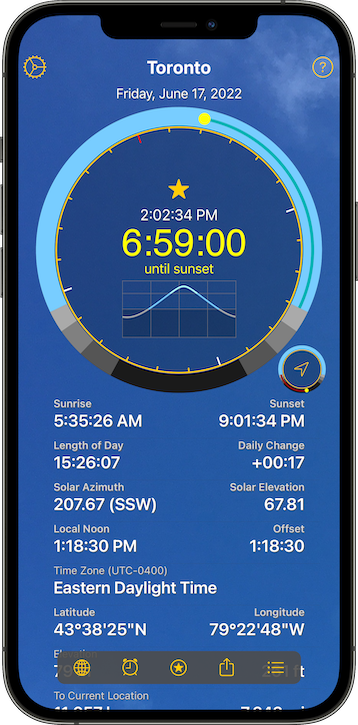
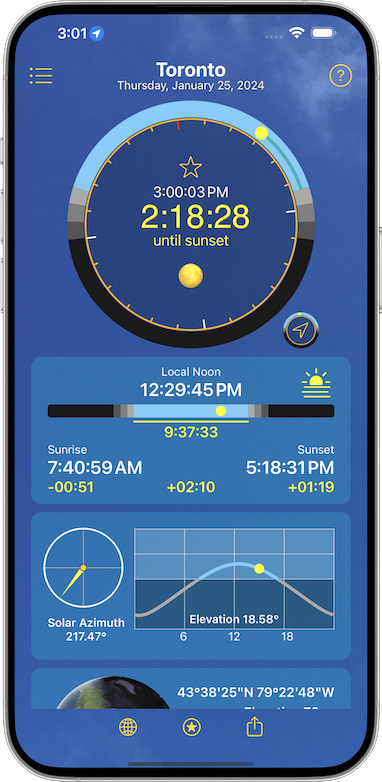
Updated main screenshots - rearranged text in en-US and de views.  Do the others later.

diff --git a/maxdaylight/v3.0/de/index.html b/maxdaylight/v3.0/de/index.html
@@ -86,126 +86,112 @@
 			<hr/>
 			<div class="container">
 				<h3>Sonnenpanel</center></h3>
-				<br/>
+				<p>Zeigt Sonnenaufgang, Mittag, Sonnenuntergang, Tageslänge und Änderungen gegenüber dem Vortag an. Tippen Sie hier, um zu verschiedenen Terminen und Zeiten zu erkunden.</p>
 				<img class="collection-cell" src="./images/cell.0.png">
 					
-					<p>Zeigt Sonnenaufgang, Mittag, Sonnenuntergang, Tageslänge und Änderungen gegenüber dem Vortag an. Tippen Sie hier, um zu verschiedenen Terminen und Zeiten zu erkunden.</p>
 			</div>
 			<hr/>
 			
 			<div class="container">
 				<h3>Solar-Höhenpanel</center></h3>
-				<br/>
+				<p>Zeigt Sonnenhöhe und Azimut an. Tippen Sie hier, um zu verschiedenen Terminen und Zeiten zu erkunden.</p>
 				<img class="collection-cell" src="./images/cell.1.png">
 					
-					<p>Zeigt Sonnenhöhe und Azimut an. Tippen Sie hier, um zu verschiedenen Terminen und Zeiten zu erkunden.</p>
 			</div>
 			<hr/>
 			
 			<div class="container">
 				<h3>Standortbereich</center></h3>
-				<br/>
+				<p>Zeigt Standort-, Höhen- und Zeitzoneninformationen an. Tippen Sie hier, um die Karte anzuzeigen und weitere Standorte zu speichern.</p>
 				<img class="collection-cell" src="./images/cell.2.png">
 					
-					<p>Zeigt Standort-, Höhen- und Zeitzoneninformationen an. Tippen Sie hier, um die Karte anzuzeigen und weitere Standorte zu speichern.</p>
 			</div>
 			<hr/>
 			
 			<div class="container">
 				<h3>Distanzfeld</center></h3>
-				<br/>
+				<p>Zeigt die Entfernung zum aktuellen Standort, zum Äquator und zum nächsten Pol an. Tippen Sie hier, um die Karte anzuzeigen und weitere Standorte zu speichern.</p>
 				<img class="collection-cell" src="./images/cell.3.png">
 					
-					<p>Zeigt die Entfernung zum aktuellen Standort, zum Äquator und zum nächsten Pol an. Tippen Sie hier, um die Karte anzuzeigen und weitere Standorte zu speichern.</p>
 			</div>
 			<hr/>
 			
 			<div class="container">
 				<h3>Dämmerungspanel</center></h3>
-				<br/>
+				<p>Zeigt die Dämmerungszeiten an. Tippen Sie hier, um zu verschiedenen Terminen und Zeiten zu erkunden.</p>
 				<img class="collection-cell" src="./images/cell.4.png">
 					
-					<p>Zeigt die Dämmerungszeiten an. Tippen Sie hier, um zu verschiedenen Terminen und Zeiten zu erkunden.</p>
 			</div>
 			<hr/>
 			
 			<div class="container">
 				<h3>Tagundnachtgleiche-Panel</center></h3>
-				<br/>
+				<p>Zeigt Informationen zur Tageslänge für Tagundnachtgleiche und Sonnenwende sowie den aktuellen Tag an. Tippen Sie hier, um zu verschiedenen Terminen und Zeiten zu erkunden.</p>
 				<img class="collection-cell" src="./images/cell.5.png">
 					
-					<p>Zeigt Informationen zur Tageslänge für Tagundnachtgleiche und Sonnenwende sowie den aktuellen Tag an. Tippen Sie hier, um zu verschiedenen Terminen und Zeiten zu erkunden.</p>
 			</div>
 			<hr/>
 			
 			<div class="container">
 				<h3>Panel „Zeitgleichung“</center></h3>
-				<br/>
+				<p>Zeigt Informationen zur Zeitgleichung für Liebhaber von Sonnenuhren an. Tippen Sie hier, um zu verschiedenen Terminen und Zeiten zu erkunden.</p>
 				<img class="collection-cell" src="./images/cell.6.png">
 					
-					<p>Zeigt Informationen zur Zeitgleichung für Liebhaber von Sonnenuhren an. Tippen Sie hier, um zu verschiedenen Terminen und Zeiten zu erkunden.</p>
 			</div>
 			<hr/>
 			
 			<div class="container">
 				<h3>Vergleichspanel</center></h3>
-				<br/>
+				<p>Vergleicht Breitengrad, Tageslänge und Sonnenhöhe für zwei Standorte. Tippen Sie hier, um zu verschiedenen Terminen und Zeiten zu erkunden.</p>
 				<img class="collection-cell" src="./images/cell.7.png">
 					
-					<p>Vergleicht Breitengrad, Tageslänge und Sonnenhöhe für zwei Standorte. Tippen Sie hier, um zu verschiedenen Terminen und Zeiten zu erkunden.</p>
 			</div>
 			<hr/>
 			
 			<div class="container">
 				<h3>Mondtafel</center></h3>
-				<br/>
+				<p>Zeigt Mondaufgang, Monduntergang, Mondphase und Beleuchtung an. Tippen Sie hier, um zu verschiedenen Terminen und Zeiten zu erkunden.</p>
 				<img class="collection-cell" src="./images/cell.8.png">
 					
-					<p>Zeigt Mondaufgang, Monduntergang, Mondphase und Beleuchtung an. Tippen Sie hier, um zu verschiedenen Terminen und Zeiten zu erkunden.</p>
 			</div>
 			<hr/>
 			
 			<div class="container">
 				<h3>Mondhöhentafel</center></h3>
-				<br/>
+				<p>Zeigt Mondhöhe und Azimut an. Tippen Sie hier, um zu verschiedenen Terminen und Zeiten zu erkunden.</p>
 				<img class="collection-cell" src="./images/cell.9.png">
 					
-					<p>Zeigt Mondhöhe und Azimut an. Tippen Sie hier, um zu verschiedenen Terminen und Zeiten zu erkunden.</p>
 			</div>
 			<hr/>
 			
 			<div class="container">
 				<h3>Film- und Berichtsbereich</center></h3>
-				<br/>
+				<p>Zeigt Sonnenaufgang, Mittag, Sonnenuntergang, Tageslänge und Änderungen gegenüber dem Vortag an. Tippen Sie hier, um zu verschiedenen Terminen und Zeiten zu erkunden.</p>
 				<img class="collection-cell" src="./images/cell.10.png">
 					
-					<p>Zeigt Sonnenaufgang, Mittag, Sonnenuntergang, Tageslänge und Änderungen gegenüber dem Vortag an. Tippen Sie hier, um zu verschiedenen Terminen und Zeiten zu erkunden.</p>
 			</div>
 			<hr/>
 			
 			<div class="container">
 				<h3>Sonnenlichtdaten-Panel</center></h3>
-				<br/>
+				<p>Zeigt Sonnenaufgang, Mittag, Sonnenuntergang, Tageslänge und Änderungen gegenüber dem Vortag an. Tippen Sie hier, um zu verschiedenen Terminen und Zeiten zu erkunden.</p>
 				<img class="collection-cell" src="./images/cell.12.png">
 					
-					<p>Zeigt Sonnenaufgang, Mittag, Sonnenuntergang, Tageslänge und Änderungen gegenüber dem Vortag an. Tippen Sie hier, um zu verschiedenen Terminen und Zeiten zu erkunden.</p>
 			</div>
 			
 			<div class="container">
 				<h3>Sonnenlichtdaten-Panel</center></h3>
-				<br/>
+				<p>Zeigt Sonnenaufgang, Mittag, Sonnenuntergang, Tageslänge und Änderungen gegenüber dem Vortag an. Tippen Sie hier, um zu verschiedenen Terminen und Zeiten zu erkunden.</p>
 				<img class="collection-cell" src="./images/cell.12.png">
 					
-					<p>Zeigt Sonnenaufgang, Mittag, Sonnenuntergang, Tageslänge und Änderungen gegenüber dem Vortag an. Tippen Sie hier, um zu verschiedenen Terminen und Zeiten zu erkunden.</p>
 			</div>
 			<hr/>
 			
 			<div class="container">
 				<h3>Sonnenlichtdaten-Panel</center></h3>
-				<br/>
+				<p>Zeigt Sonnenaufgang, Mittag, Sonnenuntergang, Tageslänge und Änderungen gegenüber dem Vortag an. Tippen Sie hier, um zu verschiedenen Terminen und Zeiten zu erkunden.</p>
 				<img class="collection-cell" src="./images/cell.13.png">
 					
-					<p>Zeigt Sonnenaufgang, Mittag, Sonnenuntergang, Tageslänge und Änderungen gegenüber dem Vortag an. Tippen Sie hier, um zu verschiedenen Terminen und Zeiten zu erkunden.</p>
 			</div>
 			<hr/>
 			

diff --git a/maxdaylight/v3.0/index.html b/maxdaylight/v3.0/index.html
@@ -87,126 +87,111 @@
 			<hr/>
 			<div class="container">
 				<h3>Sun Panel</h3>
-				<br/>
+				<p>Displays sunrise, noon, sunset, length of day and changes from previous day. Tap to explore at different dates and times.</p>
 				<img class="collection-cell" src="./images/cell.0.png">
 
-				<p>Displays sunrise, noon, sunset, length of day and changes from previous day. Tap to explore at different dates and times.</p>
 			</div>
 			<hr/>
 
 			<div class="container">
 				<h3>Solar Elevation Panel</h3>
-				<br/>
-				<img class="collection-cell" src="./images/cell.1.png">
-
 				<p>Displays solar elevation and azimuth. Tap to explore at different dates and times.</p>
+				<img class="collection-cell" src="./images/cell.1.png">
 			</div>
 			<hr/>
 
 			<div class="container">
 				<h3>Location Panel</h3>
-				<br/>
+				<p>Displays location, elevation and time zone information. Tap to view map and save more locations.</p>
 				<img class="collection-cell" src="./images/cell.2.png">
 
-				<p>Displays location, elevation and time zone information. Tap to view map and save more locations.</p>
 			</div>
 			<hr/>
 
 			<div class="container">
 				<h3>Distance Panel</h3>
-				<br/>
+				<p>Displays distance to current location, equator, and nearest pole. Tap to view map and save more locations.</p>
 				<img class="collection-cell" src="./images/cell.3.png">
 
-				<p>Displays distance to current location, equator, and nearest pole. Tap to view map and save more locations.</p>
 			</div>
 			<hr/>
 
 			<div class="container">
 				<h3>Twilight Panel</h3>
-				<br/>
+				<p>Displays twilight times. Tap to explore at different dates and times.</p>
 				<img class="collection-cell" src="./images/cell.4.png">
 
-				<p>Displays twilight times. Tap to explore at different dates and times.</p>
 			</div>
 			<hr/>
 
 			<div class="container">
 				<h3>Equinox Panel</h3>
-				<br/>
+				<p>Displays day length information for equinoxes and solstices, along with current day. Tap to explore at different dates and times.</p>
 				<img class="collection-cell" src="./images/cell.5.png">
 
-				<p>Displays day length information for equinoxes and solstices, along with current day. Tap to explore at different dates and times.</p>
 			</div>
 			<hr/>
 
 			<div class="container">
 				<h3>Equation of Time Panel</h3>
-				<br/>
+				<p>Displays information about the Equation of Time, for sun dial enthusiasts. Tap to explore at different dates and times.</p>
 				<img class="collection-cell" src="./images/cell.6.png">
 
-				<p>Displays information about the Equation of Time, for sun dial enthusiasts. Tap to explore at different dates and times.</p>
 			</div>
 			<hr/>
 
 			<div class="container">
 				<h3>Comparison Panel</h3>
-				<br/>
+				<p>Compares latitude, day length and solar elevation for two locations.  Tap to explore at different dates and times.</p>
 				<img class="collection-cell" src="./images/cell.7.png">
 
-				<p>Compares latitude, day length and solar elevation for two locations.  Tap to explore at different dates and times.</p>
 			</div>
 			<hr/>
 
 			<div class="container">
 				<h3>Moon Panel</h3>
-				<br/>
+				<p>Displays moonrise, moonset, lunar phase and illumination. Tap to explore at different dates and times.</p>
 				<img class="collection-cell" src="./images/cell.8.png">
 
-				<p>Displays moonrise, moonset, lunar phase and illumination. Tap to explore at different dates and times.</p>
 			</div>
 			<hr/>
 
 			<div class="container">
 				<h3>Moon Elevation Panel</h3>
-				<br/>
+				<p>Displays lunar elevation and azimuth. Tap to explore at different dates and times.</p>
 				<img class="collection-cell" src="./images/cell.9.png">
 
-				<p>Displays lunar elevation and azimuth. Tap to explore at different dates and times.</p>
 			</div>
 			<hr/>
 
 			<div class="container">
 				<h3>Movie and Report Panel</h3>
-				<br/>
+				<p>Displays buttons to make a movie or generate a report. Tap to create and view movie or report.</p>
 				<img class="collection-cell" src="./images/cell.10.png">
 
-				<p>Displays buttons to make a movie or generate a report. Tap to create and view movie or report.</p>
 			</div>
 			<hr/>
 
 			<div class="container">
 				<h3>Notifications Panel</h3>
-				<br/>
+				<p>Shows status of notifications you have set. Tap to manage your notifications.</p>
 				<img class="collection-cell" src="./images/cell.11.png">
 
-				<p>Shows status of notifications you have set. Tap to manage your notifications.</p>
 			</div>
 
 			<div class="container">
 				<h3>Settings Panel</h3>
-				<br/>
+				<p>Displays buttons to manage Settings, including Options, Permissions, Rate and Review, and App Info, Privacy and Support. Tap to select options, review permissions, rate and review this app, and get app version and other information.</p>
 				<img class="collection-cell" src="./images/cell.12.png">
 
-				<p>Displays buttons to manage Settings, including Options, Permissions, Rate and Review, and App Info, Privacy and Support. Tap to select options, review permissions, rate and review this app, and get app version and other information.</p>
 			</div>
 			<hr/>
 
 			<div class="container">
 				<h3>Statistics Panel</h3>
-				<br/>
+				<p>Displays data about your usage of the app. Tap to see how this data is kept private.</p>
 				<img class="collection-cell" src="./images/cell.13.png">
 
-				<p>Displays data about your usage of the app. Tap to see how this data is kept private.</p>
 			</div>
 			<hr/>
 		</div>

diff --git a/index.html b/index.html
@@ -73,7 +73,7 @@
 				</div>
 				<div class="appbody left">
 
-					<img class="screenshot" src="./images/MAX-Daylight.NYC.png"/>
+					<img class="screenshot" src="./images/MAX-Daylight-en.png"/>
 
 				</div>
 				
@@ -91,6 +91,7 @@
 	
 					<p><a href="https://apps.apple.com/us/app/id1617201197"><img width=150  src="./images/Download_on_the_App_Store_Badge_US-UK_RGB_blk_092917.svg"></a>
 					</p>
+					<a href="https://359north.com/maxdaylight/v3.0/"><b>What's new in Version 3.0?</b></a>
 
 					
 					
